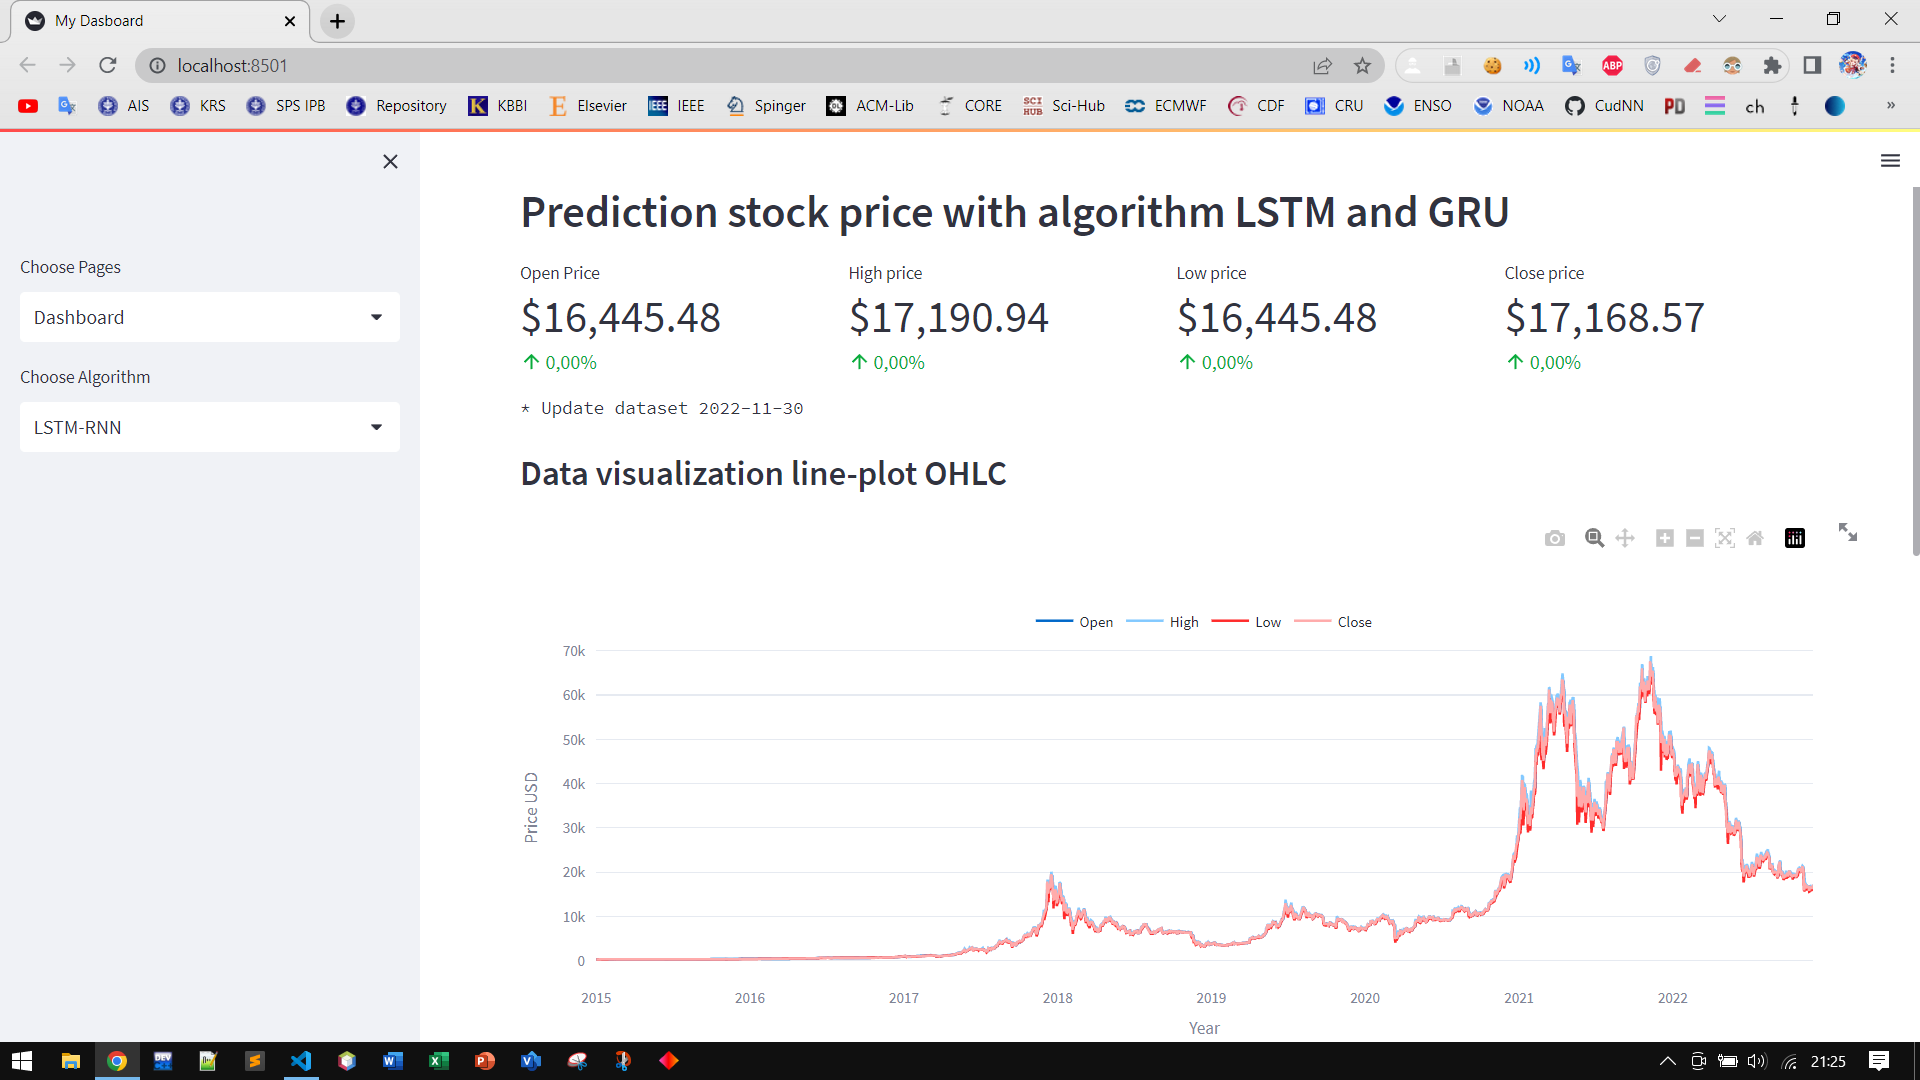
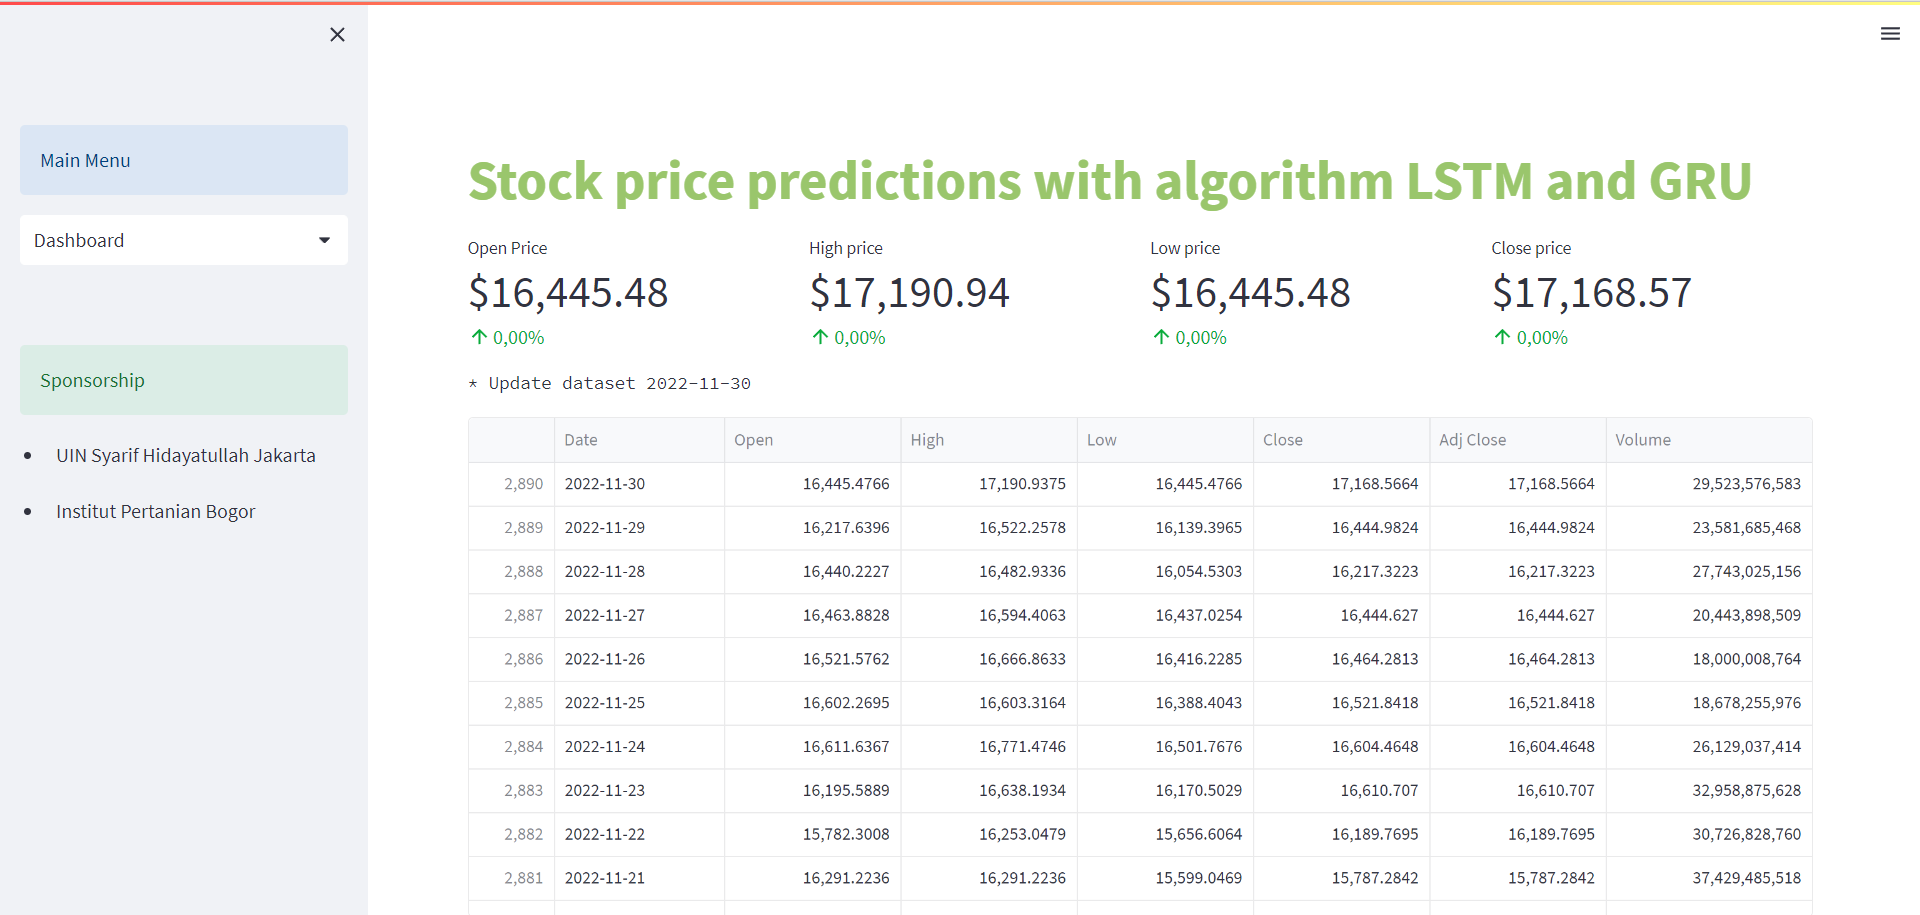
-

diff --git a/home.py b/home.py
@@ -1,10 +1,9 @@
 # library ui-dashboard
 import streamlit as st;
+from streamlit_extras import add_vertical_space as avs
 
 # library manipulation dataset
 import pandas as pd;
-
-# library manipulation array
 import numpy as np;
 
 # library data visualization
@@ -13,6 +12,7 @@ import plotly.graph_objects as go;
 
 # call method from other file
 from class_dataset import *;
+from class_visualization import *;
 
 
 # --------------------------------------------------------------- #
@@ -40,23 +40,82 @@ if __name__ == "__main__":
     # --------------------------------------------------------------- #
     with st.sidebar:
         st.info("Main Menu");
-        st.selectbox(
-            label="", options=("Dashboard", "Exploratory Data Analysis", "Model Predictions"), label_visibility="collapsed"
-        );
+        st.selectbox(label="", options=("Dashboard", "Exploratory Data Analysis", "Model Predictions"), label_visibility="collapsed");
     
+        avs.add_vertical_space(3);
+        st.success("Sponsorship");
+        st.markdown("- UIN Syarif Hidayatullah Jakarta");
+        st.markdown("- Institut Pertanian Bogor");
+        
     # --------------------------------------------------------------- #
     # -- container-wrapper ------------------------------------------ #
     # --------------------------------------------------------------- #
     with st.container():
 
         # load dataset
-        df = dataset.get_dataset();
-
+        dataset = dataset.get_dataset();
+        
         # container-header
         with st.container():
-            st.header("Stock price predictions with algorithm LSTM and GRU");
+            st.markdown("<h1 style='color:#9AC66C;'>Stock price predictions with algorithm LSTM and GRU</h1>",unsafe_allow_html=True);
+        
+        # container-OHLC
+        with st.container():
+            
+            # define columns with col-4 row-1
+            col1, col2, col3, col4 = st.columns(4);
+            col1.metric(label="Open Price", value="$"+"{:,.2f}".format(dataset["Open"].iloc[-1]), delta="0,00%");
+            col2.metric(label="High price", value="$"+"{:,.2f}".format(dataset["High"].iloc[-1]), delta="0,00%");
+            col3.metric(label="Low price", value="$"+"{:,.2f}".format(dataset["Low"].iloc[-1]), delta="0,00%");
+            col4.metric(label="Close price", value="$"+"{:,.2f}".format(dataset["Close"].iloc[-1]), delta="0,00%");
+
+            # description dataset
+            st.text("* Update dataset 2022-11-30");
         
         # container-dataframe
         with st.container():
-            st.dataframe(data= df.sort_values('Date', ascending=False), use_container_width=True);
+            st.dataframe(data= dataset.sort_values('Date', ascending=False), use_container_width=True);
 
+        # container-visualization
+        with st.container():
+
+            # define columns with col-2 row-1
+            col1, col2= st.columns(2);
+            col1.plotly_chart(
+                visualization.time_series(
+                    dataset["Date"],
+                    dataset["Open"],
+                    "Open Price",
+                    "blue"
+                ),
+                use_container_width=True
+            );
+            col2.plotly_chart(
+                visualization.time_series(
+                    dataset["Date"],
+                    dataset["Close"],
+                    "Close Price",
+                    "green"
+                ),
+                use_container_width=True
+            );
+            col1.plotly_chart(
+                visualization.time_series(
+                    dataset["Date"],
+                    dataset["High"],
+                    "High Price",
+                    "orange"
+                ),
+                use_container_width=True
+            );
+            col2.plotly_chart(
+                visualization.time_series(
+                    dataset["Date"],
+                    dataset["Low"],
+                    "Low Price",
+                    "red"
+                ),
+                use_container_width=True
+            );
+          
+            

diff --git a/class_visualization.py b/class_visualization.py
@@ -1,0 +1,32 @@
+# declaration of library
+import pandas as pd;
+import numpy as np;
+import plotly.express as px;
+import plotly.graph_objects as go;
+
+
+# define class visualization
+class visualization:
+
+    # property visualization
+    x = "";
+    y = "";
+
+    def time_series(dataX, dataY, title, color):
+        
+        # define a new figure
+        fig = go.Figure();
+
+        # add plot time series
+        fig.add_trace(
+            go.Scatter(
+                x=dataX, y=dataY, mode='lines', line_color=color,
+            )
+        );
+
+        # update plot
+        fig.update_layout(title_text=title, title_x=0.5);
+
+        # return values
+        return fig;
+    

diff --git a/other/app.py b/other/app.py
@@ -42,7 +42,7 @@ st.set_page_config(
 # --------------------------------------------------------------- #
 
 # load dataset
-dataset = pd.read_csv("dataset/btc-usd.csv", parse_dates=["Date"]);
+dataset = pd.read_csv("../dataset/btc-usd.csv", parse_dates=["Date"]);
 
 # set index date
 dataset = dataset.set_index("Date");
